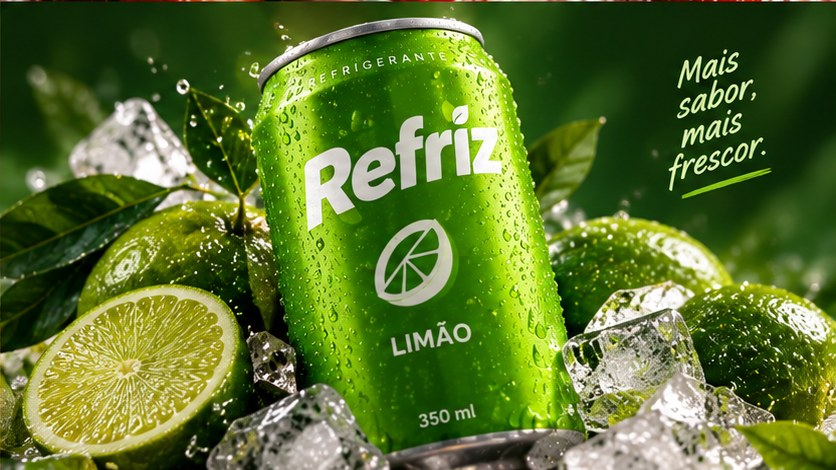
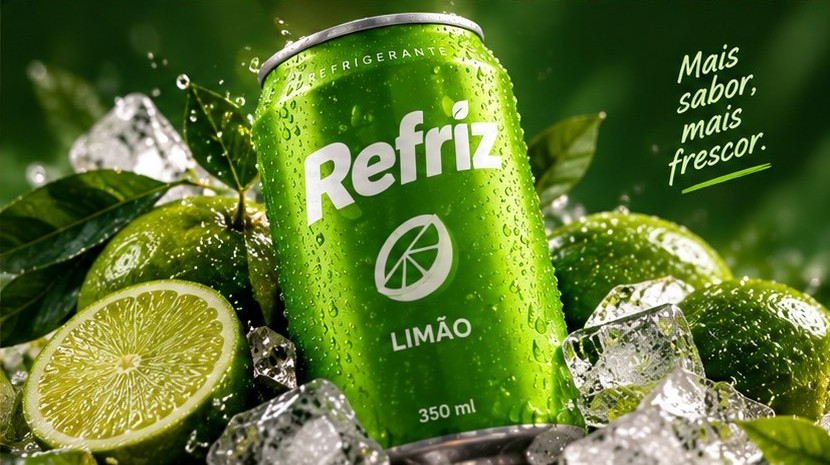
Imagens corrigidas. Versção 1.0.2

diff --git a/README.md b/README.md
@@ -2,7 +2,7 @@
 
 Uma landing page demonstrativa para a marca Refriz, desenvolvida pela WebNest para apresentar três sabores de refrigerante: morango, laranja e limão. O projeto combina imagens de produto, cores vibrantes e uma interface moderna para destacar a identidade visual da marca.
 
-Versão 1.0.1
+Versão 1.0.2
 
 🔗 **Acesse o projeto:** [WebNest Refriz](https://gabriel-silira.github.io/WebNest-Refriz/)
 
